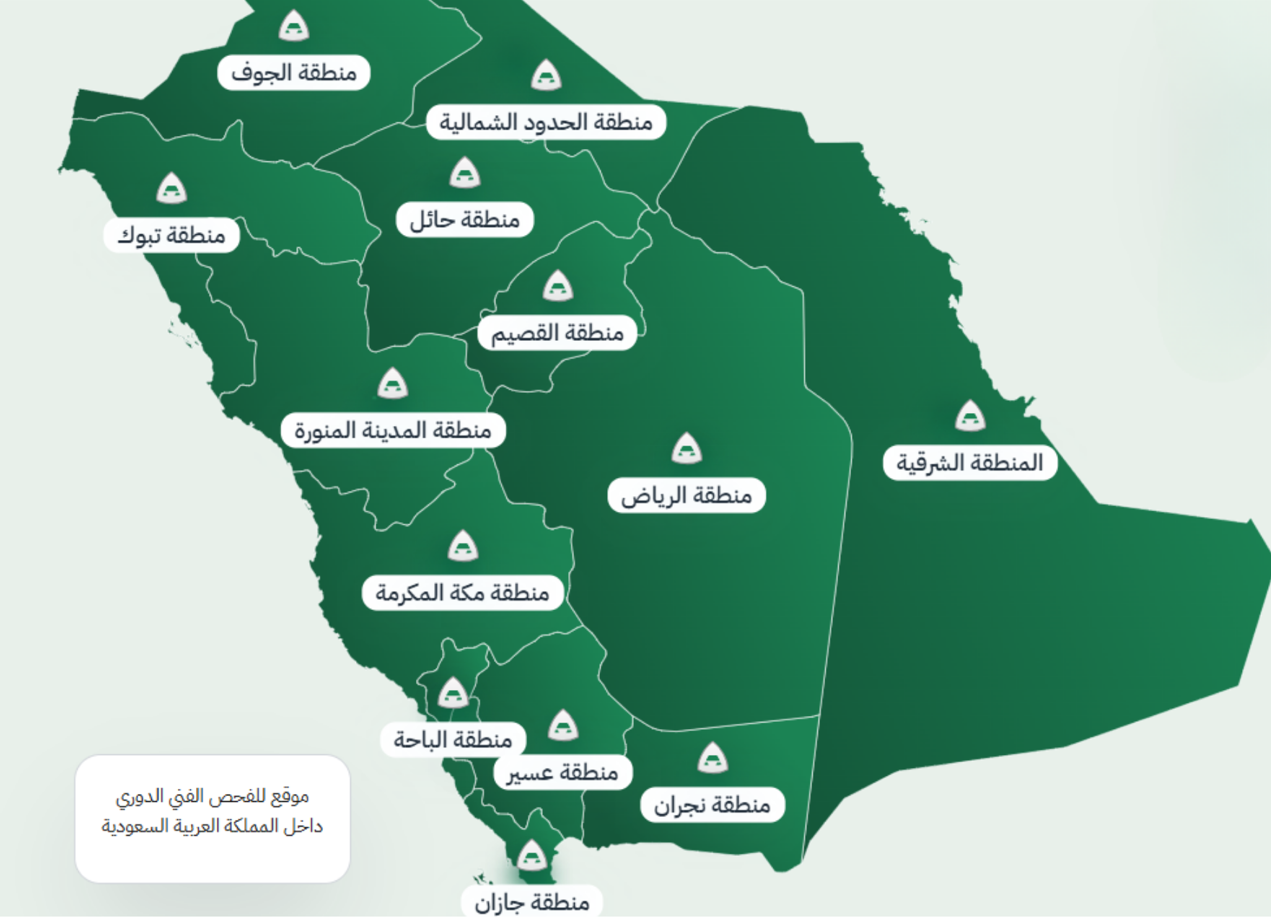
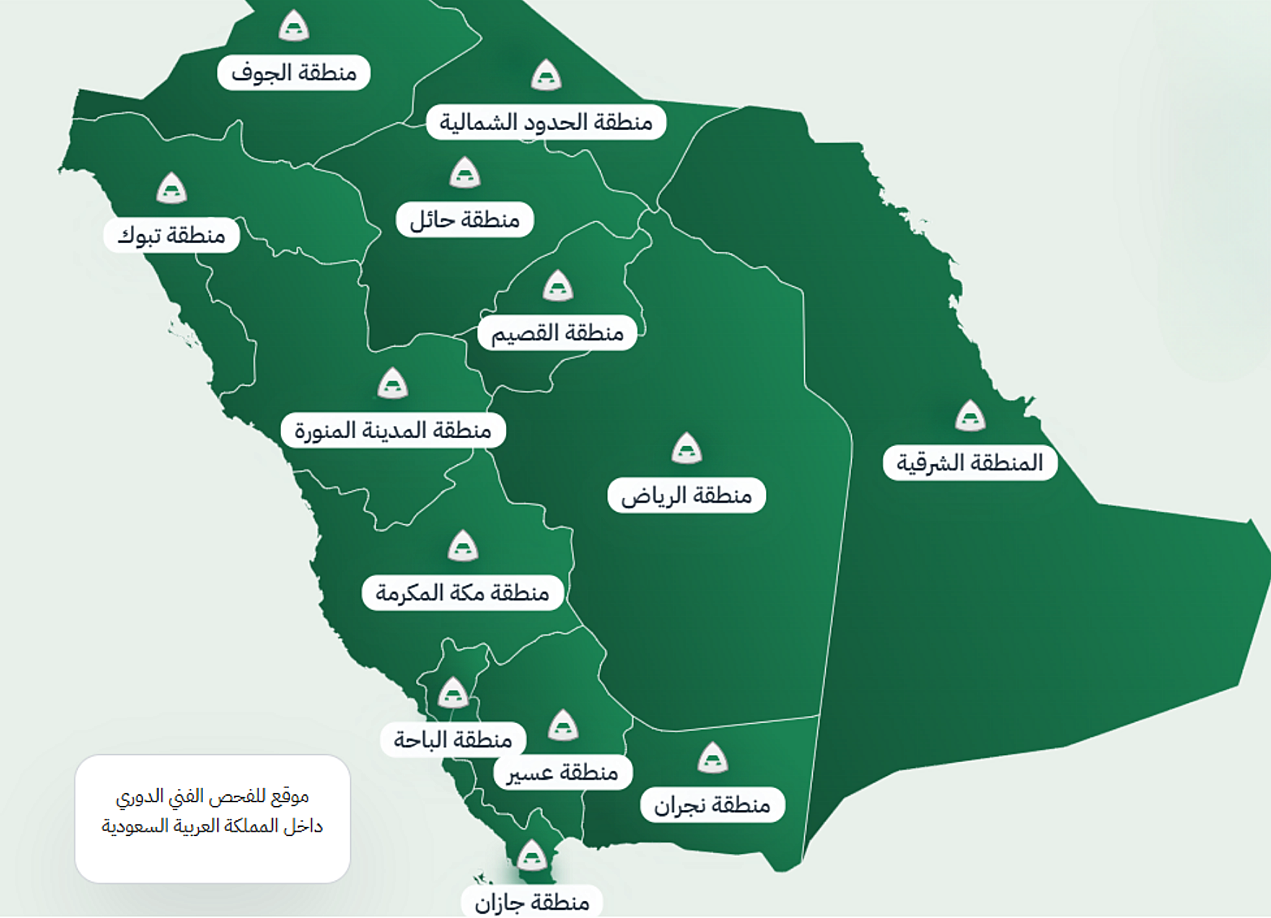
Reduce map size and improve quality

diff --git a/client/src/pages/Home.tsx b/client/src/pages/Home.tsx
@@ -203,7 +203,7 @@ export default function Home() {
               <h2 className="text-3xl md:text-4xl font-bold mb-4">{language === 'ar' ? 'مواقع الفحص الفني الدوري' : 'Periodic Inspection Locations'}</h2>
             </div>
             <div className="flex justify-center">
-              <img src="/images/map-saudi.png" alt="Saudi Arabia Map" className="w-full max-w-5xl rounded-lg shadow-lg" />
+              <img src="/images/map-saudi.png" alt="Saudi Arabia Map" className="w-full max-w-4xl rounded-lg shadow-lg" />
             </div>
           </div>
         </section>
